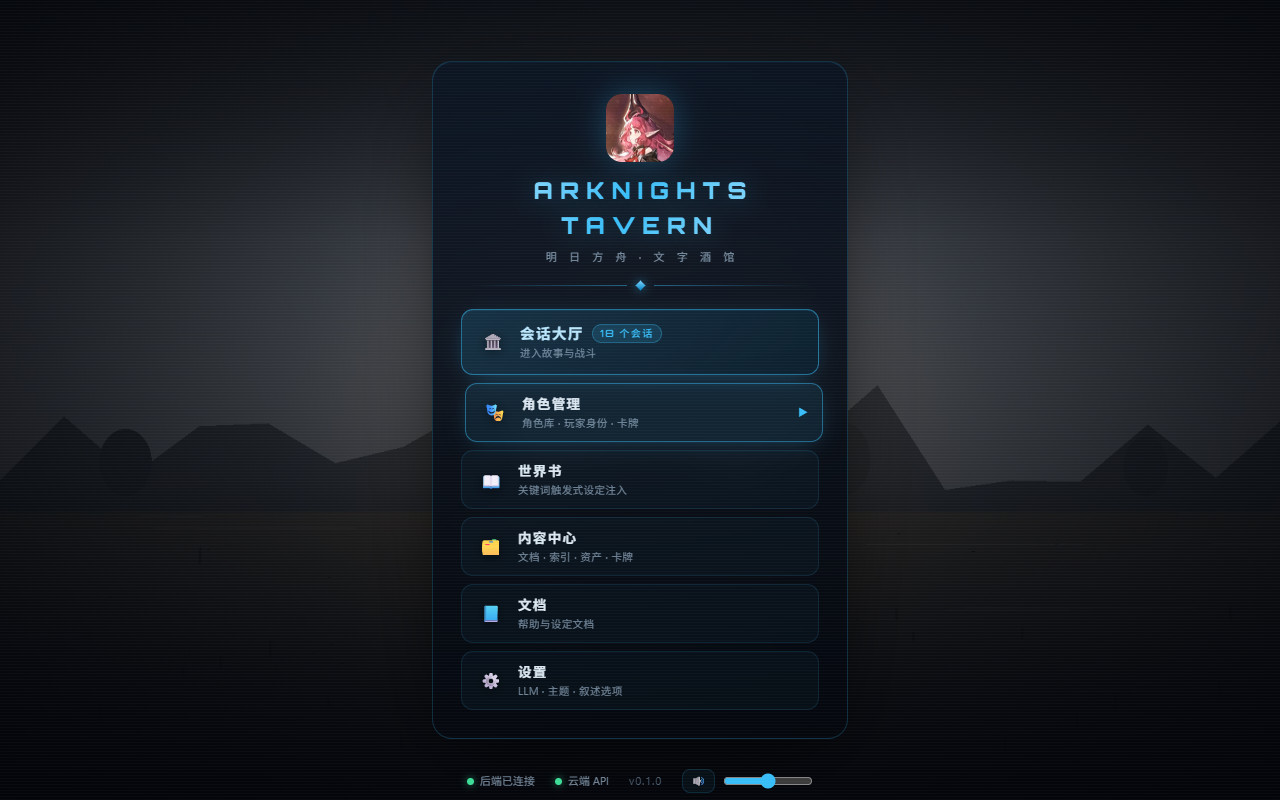
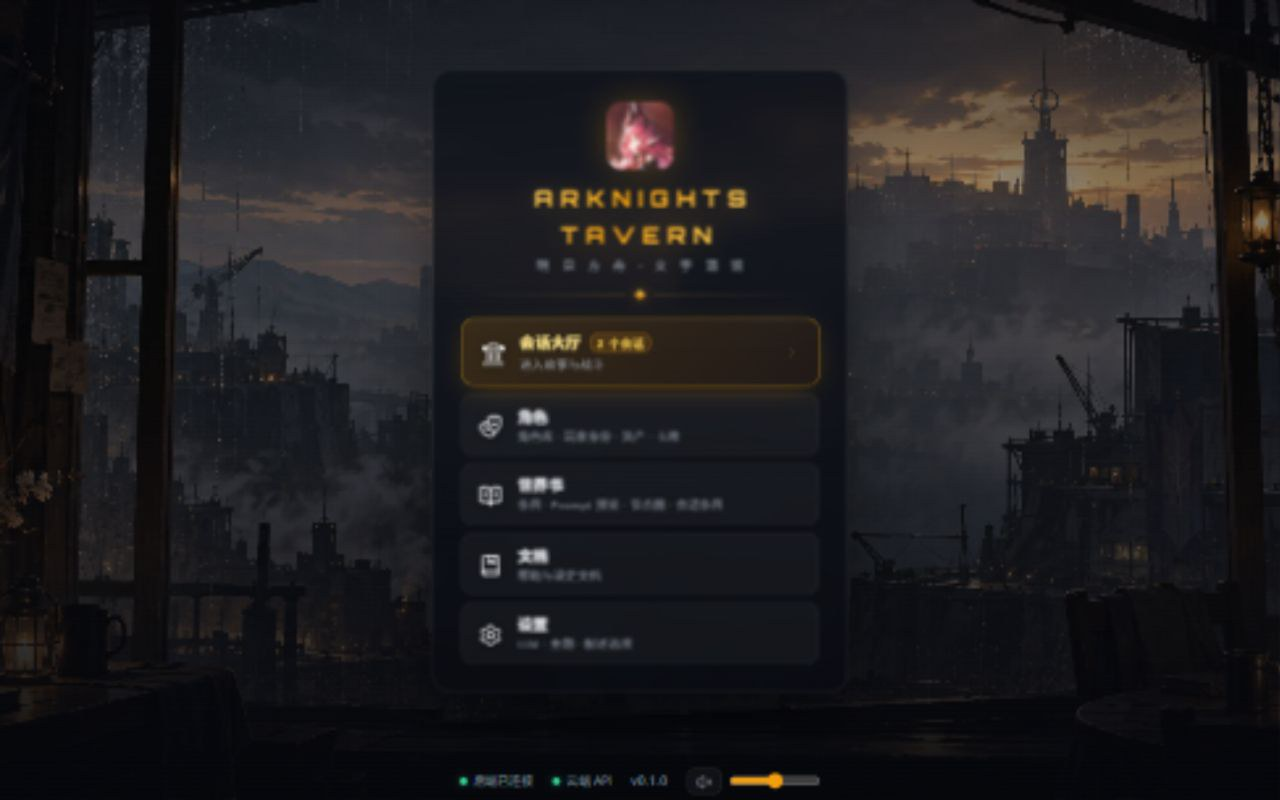
feat: refresh home menu background and readme

diff --git a/frontend/src/style.css b/frontend/src/style.css
@@ -1330,6 +1330,8 @@ html.light .lobby-empty { background: rgba(249, 250, 251, 0.6); border-color: rg
 
 .home-menu-root {
   position: relative;
+  display: flex;
+  flex-direction: column;
   height: 100%;
   width: 100%;
   overflow: hidden;
@@ -1393,11 +1395,14 @@ html.light .lobby-empty { background: rgba(249, 250, 251, 0.6); border-color: rg
 
 /* ── 主菜单舞台 ── */
 .home-menu-stage {
-  position: absolute;
-  inset: 0;
+  position: relative;
+  flex: 1;
+  min-height: 0;
   display: flex;
   align-items: center;
-  justify-content: center;
+  justify-content: safe center;
+  overflow-y: auto;
+  padding: 24px 0;
   opacity: 0;
   pointer-events: none;
   transform: translateY(10px);
@@ -1411,7 +1416,7 @@ html.light .lobby-empty { background: rgba(249, 250, 251, 0.6); border-color: rg
 .home-menu-column {
   width: 100%;
   max-width: 26rem;
-  margin: 0 1.5rem;
+  margin: auto 1.5rem;
   padding: 2rem 1.75rem 1.75rem;
   border-radius: 1.25rem;
   border: 1px solid rgba(255, 255, 255, 0.08);
@@ -1564,10 +1569,8 @@ html.light .lobby-empty { background: rgba(249, 250, 251, 0.6); border-color: rg
 
 /* 底部状态 */
 .home-menu-footer {
-  position: absolute;
-  left: 0;
-  right: 0;
-  bottom: 0;
+  position: relative;
+  flex: none;
   height: 38px;
   display: flex;
   align-items: center;

diff --git a/frontend/src/components/HomeMenu.tsx b/frontend/src/components/HomeMenu.tsx
@@ -141,7 +141,7 @@ export default function HomeMenu() {
   return (
     <div
       className="home-menu-root"
-      style={{ backgroundImage: "url(" + asset("menu_bg.jpg") + ")" }}
+      style={{ backgroundImage: "url(" + asset("menu_bg-v2.webp") + ")" }}
     >
       {/* 氛围遮罩：暗角 + 顶部/底部压暗 */}
       <div className="home-menu-vignette" />

diff --git a/README.md b/README.md
@@ -1,6 +1,6 @@
 # Arknights Tavern（开发测试中，功能尚未完善）
 
-**一款跑在你自己电脑上的明日方舟主题文字角色扮演游戏。** AI 扮演「主持人」把故事讲下去，你只需要做选择；剧情里遭遇敌人时，可以掏出卡牌在网格战场上打一场回合制战斗。角色、剧情、世界书、战斗数据和存档全部存放在本机。
+**一款跑在你自己电脑上的明日方舟主题文字角色扮演游戏。** AI 扮演「主持人」推进剧情，你可以做选择、自由输入，也可以选择纯叙述、卡牌网格战斗或横版动作关卡。角色、剧情、世界书、战斗数据和存档全部存放在本机。
 
 > 第一次玩？建议先看图文教程 [**docs/tutorial.md**](docs/tutorial.md) —— 从零开始、不需要任何编程知识。
 
@@ -10,9 +10,11 @@
 
 ### 主界面
 
-启动后进入主菜单，五个入口覆盖全部功能；底部状态栏实时显示后端连接、AI 模型状态与版本号。
+启动后先点击进入主菜单。五个入口分别通往会话大厅、角色、世界书、文档与设置；底部状态栏显示后端连接、AI 模型状态、版本号与背景音乐控制。窄窗口中菜单可滚动浏览。
 
 ![主界面：主菜单与状态栏](docs/images/01-main.jpg)
+
+主页背景原图位于 [`frontend/public/menu_bg-v2.webp`](frontend/public/menu_bg-v2.webp)。
 
 ### 会话大厅
 
@@ -34,11 +36,11 @@
 
 ### 世界书
 
-酒馆（SillyTavern）Lorebook 兼容的设定库：关键词触发注入、绑定会话、批量编辑；世界书页是带四个页签的工作台——条目 / Prompt 预览 / 节点图 / 本家索引，书架上方还能跨世界书检索条目。
+酒馆（SillyTavern）Lorebook 兼容的设定库：关键词触发注入、绑定会话、批量编辑；世界书页提供条目 / Prompt 预览 / 节点图 / 会话条目四个页签，书架上方还能跨世界书检索条目。
 
 ![世界书：条目列表与触发配置](docs/images/05-worldbook.jpg)
 
-> （截图待更新：新界面为世界书工作台四页签 —— 条目 / Prompt 预览 / 节点图 / 本家索引）
+> 世界书截图待更新；实际界面以当前版本为准。
 
 ### 剧情节点图
 
@@ -48,7 +50,7 @@
 
 ### 战斗界面
 
-左侧我方状态、中央网格战场（PixiJS 角色动画与特效）、右侧敌方状态、底部手牌与事件日志。
+下图是回合制战术战斗：左侧我方状态、中央网格战场（PixiJS 角色动画与特效）、右侧敌方状态、底部手牌与事件日志。横版动作关卡使用独立的实时战斗界面。
 
 ![战斗界面：网格战场与卡牌操作](docs/images/07-combat.jpg)
 
@@ -67,11 +69,12 @@
 - **剧情回忆** — 每隔若干轮自动把进展总结成章节摘要，随时回顾发生过什么，也可一键重新总结。
 - **自由模式** — 手动把角色和物品加进场景，与单个角色对话或发起群聊，自由编辑地点 / 天气 / 时间。
 - **会话大厅** — 像游戏主菜单一样管理全部存档：新建、切换、重命名、批量删除、导出 / 导入存档包、绑定世界书与角色阵容。
-- **回合制网格战斗** — 卡牌 + AP + 地形，网格尺寸由战斗节点定义（内置节点为 7×7），带 CSS 3D 透视与 PixiJS Spine 角色动画、技能特效和音效；数字键 `1-5` 选牌、`F` 结束回合、`Esc` 取消。战斗结束后角色状态自动回写会话。
+- **回合制网格战斗** — 卡牌 + AP + 地形，网格尺寸由战斗节点定义，带 PixiJS Spine 角色动画、技能特效和音效；数字键选牌、`F` 结束回合、`Esc` 取消。战斗结束后角色状态自动回写会话。
+- **横版动作关卡** — 独立于网格战斗的实时玩法，可在创建会话时选择，也可从会话大厅进入演练；支持移动、跳跃、闪避、攻击与技能。
 - **世界书（酒馆兼容）** — 导入酒馆世界书 JSON（v1/v2）、角色卡内嵌世界书、聊天备份 `.jsonl`；支持常驻 / 选择性 / 概率 / 大小写 / 全词匹配等酒馆语义；可绑定到指定会话，并能一键导出回酒馆 v1 格式。
-- **世界书工作台** — 四个页签：`条目`（列表 / 编辑 / 导入导出 / 资料库检索摘录）、`Prompt 预览`（这一轮实际会插进模型提示词的完整文本、顺序与插入位置，以及没进去的条目和原因）、`节点图`（按设定集选择剧情，整页画布编辑剧情节拍与战斗节点）、`本家索引`（内置语料索引 · 依赖完整性 · 会话白名单）；书架上方可跨世界书检索条目，命中后选中该书、跳到 `条目` 页签并预填条目筛选。依赖数据、分类、载入规则、保存与撤销、范围预览的数据与接口都不受影响；被删掉的是原画布、旧「节点视图」轨道页与「AI 自动构建依赖」。⚠ 已知未接线：旧「分类与载入」页签的子视图当前未挂载，依赖配置暂无编辑 UI（`条目` 页上的配置保存条实际不可达，保留原路径待接线）。
+- **世界书工作台** — 四个页签：`条目`（列表 / 编辑 / 导入导出 / 资料库检索摘录）、`Prompt 预览`（查看实际注入文本与未注入原因）、`节点图`（编辑剧情节拍与战斗节点）、`会话条目`（为当前会话单独启用或停用条目）；书架上方可跨世界书检索。依赖配置的编辑 UI 当前尚未接线，相关限制见 [`docs/notes.md`](docs/notes.md)。
 - **剧情节点图** — 在整页画布上把剧情节拍与战斗节点连成一张图，可视化编排一条完整剧情线。
-- **开箱即用的内容** — 随程序分发 181 名角色、27 件物品、20 种敌人、17 个战斗节点与 3 条剧情线（`fengxue_guojing` 风雪过境、`near-light` 长夜临光、`combat-test` 战斗测试），以及方舟设定集世界书整合包（首次启动自动安装）。
+- **开箱即用的内容** — 随程序分发角色、物品、敌人、战斗节点、剧情线与方舟设定集世界书整合包（首次启动自动安装）；也支持导入和编辑自己的内容。
 - **角色** — 浏览角色库、直接导入 SillyTavern 角色卡（`.png` / `.json` / `.webp` / `.jpg`，内嵌世界书一并导入）、维护多个「玩家身份」；资产与卡牌也在这一页的模块页签里，三者都可按来源世界书分组或筛选。
 - **云 / 本地模型双后端** — 支持 OpenAI 兼容接口、DeepSeek 与本地 Ollama；可同时配置主备，其中一个不可用时自动切换，对话不中断。
 - **桌面端 + 浏览器端** — 同一个前端既能以 Electron 桌面窗口运行，也能用浏览器打开；已配置 Windows（NSIS）/ macOS（DMG）/ Linux（AppImage）打包目标。
@@ -84,11 +87,11 @@
 
 | 对比维度 | Arknights Tavern | SillyTavern |
 | --- | --- | --- |
-| 产品定位 | 明日方舟主题的**完整文字 RPG**：剧情推进、回合制战斗、内容库一体 | 通用的 LLM 角色扮演**前端**，以角色卡对话为核心 |
-| 开箱内容 | 随程序分发 181 名角色、27 件物品、20 种敌人、17 个战斗节点、3 条剧情线与方舟设定集世界书整合包，装好即可开玩 | 本体不绑定特定世界观，内容依赖用户自行导入角色卡 / 世界书 |
+| 产品定位 | 明日方舟主题的**文字 RPG**：剧情推进、战斗与内容库一体 | 通用的 LLM 角色扮演**前端**，以角色卡对话为核心 |
+| 开箱内容 | 随程序分发角色、物品、敌人、战斗节点、剧情线与方舟设定集世界书整合包 | 本体不绑定特定世界观，内容依赖用户自行导入角色卡 / 世界书 |
 | 剧情能力 | 内置剧情模式：AI 叙述 + 行动选项 + 章节回忆 + 轮次 / 回忆 / 消息级回退 + 叙述多变体；另有整页画布的「剧情节点图」 | 以自由对话为主 |
-| 战斗 | 内置卡牌回合制网格战斗：AP、地形、可配置网格、Spine 动画与音效，战后状态回写会话 | 无内置战斗系统 |
-| 世界书 | 酒馆 Lorebook v1/v2 兼容（导入 / 导出 / 角色卡内嵌 / `.jsonl` 聊天备份），另有带四个页签的世界书工作台（`条目` / `Prompt 预览` / `节点图` / `本家索引`，书架上方可跨世界书检索） | 原生 Lorebook，条目管理成熟、社区生态庞大 |
+| 战斗 | 纯叙述、卡牌回合制网格战斗与独立横版动作关卡；战术战斗支持 AP、地形、可配置网格、Spine 动画与音效 | 无内置战斗系统 |
+| 世界书 | 酒馆 Lorebook v1/v2 兼容（导入 / 导出 / 角色卡内嵌 / `.jsonl` 聊天备份），另有四页签工作台（`条目` / `Prompt 预览` / `节点图` / `会话条目`） | 原生 Lorebook，条目管理成熟、社区生态庞大 |
 | 内容管理 | 资产与卡牌在「角色」页的模块页签里管理，剧情节点图在世界书工作台的 `节点图` 页签里编辑；世界书依赖与索引的归属也都在世界书工作台（依赖配置的编辑 UI 当前未接线，见上），一级入口不再重叠；角色库、资产与卡牌都标注来源世界书，可按书分组或筛选 | 以角色卡与世界书为组织单位 |
 | 运行形态 | Electron 桌面端（已配置 Windows / macOS / Linux 打包目标）与浏览器端两种界面；后端对话走 SSE 流式输出 | 浏览器访问，Node.js 单运行时 |
 | 上手成本 | 提供 Windows / macOS 一键启动脚本（自动检查依赖、清理本项目残留进程、等后端就绪）与零基础图文教程 | 需自行准备运行时并配置模型连接 |
@@ -161,7 +164,7 @@ cd frontend && npm run dev:web   # 然后手动打开 http://localhost:5173
 
 ### 配置 AI 模型
 
-点击左侧「⚙ 设置」，在「LLM 配置」区域填写，然后点「测试连接」：
+从主菜单进入「设置」，在「LLM 配置」区域填写，然后点「测试连接」：
 
 - **云端 API** — 选择接口类型（自动 / OpenAI 兼容 / DeepSeek），填入 API Key、接口地址与模型名称。
 - **Ollama 本地** — 先安装 [Ollama](https://ollama.com) 并 `ollama pull qwen2.5:7b`，再填入 Ollama 地址（默认 `http://localhost:11434`）与模型名称。
@@ -188,7 +191,7 @@ Windows 上该脚本默认调用 `python3`，可用 `PYTHON=python bash scripts/
 - **剧情模式** — 导入世界书，体验完整故事线。
 - **自由模式** — 与角色自由互动，没有固定剧情。
 
-创建时可选绑定一本世界书、挑选出场角色，并选定战斗模式（`narrative` / `tactical`，**创建后不可更改**）。新建的会话进入全屏沉浸式对话页；要改设定请退回大厅。
+创建时可选绑定一本世界书、挑选主控角色与队友，并选定战斗模式：纯剧情叙述（`narrative`）、回合制战术（`tactical`）或横版动作（`sideview`）。战斗模式**创建后不可更改**。新建的会话进入全屏沉浸式对话页；要改设定请退回大厅。
 
 ### 2. 剧情模式
 
@@ -218,7 +221,7 @@ Windows 上该脚本默认调用 `python3`，可用 `PYTHON=python bash scripts/
 
 ### 5. 世界书
 
-世界书页是带四个页签的工作台：`条目` / `Prompt 预览` / `节点图` / `本家索引`（最后一页是内置语料索引 · 依赖完整性 · 会话白名单）。
+世界书页是带四个页签的工作台：`条目` / `Prompt 预览` / `节点图` / `会话条目`（最后一页可对当前会话的条目单独设置跟随默认、启用或停用）。
 
 1. **导入** — 支持酒馆世界书导出 JSON（v1/v2）、角色卡内嵌世界书、聊天备份 `.jsonl`；也可直接粘贴 JSON。程序会自动识别格式并报告导入 / 跳过 / 警告。
 2. **触发** — 条目按主 / 副关键词扫描最近对话自动注入；支持常驻、选择性、概率、深度、分组、大小写、全词匹配等酒馆语义。
@@ -228,7 +231,7 @@ Windows 上该脚本默认调用 `python3`，可用 `PYTHON=python bash scripts/
 
 ### 6. 战斗
 
-三种进入方式：对话页顶栏手动触发遭遇战、在会话大厅点「⚔ 战斗演练」进测试战场、或使用无需会话的「战斗测试」模式。
+剧情会话的战斗类型由创建时选择的模式决定。会话大厅的「战斗演练」提供回合制与横版动作两种独立练习入口；回合制还支持无需会话的测试存档。下表适用于**回合制网格战斗**。
 
 | 操作 | 方法 |
 | --- | --- |
